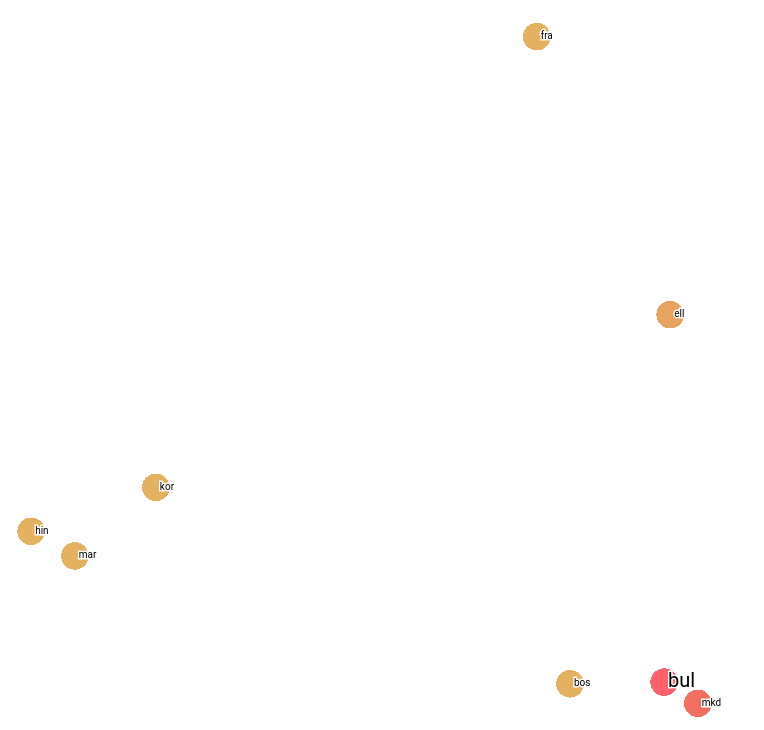
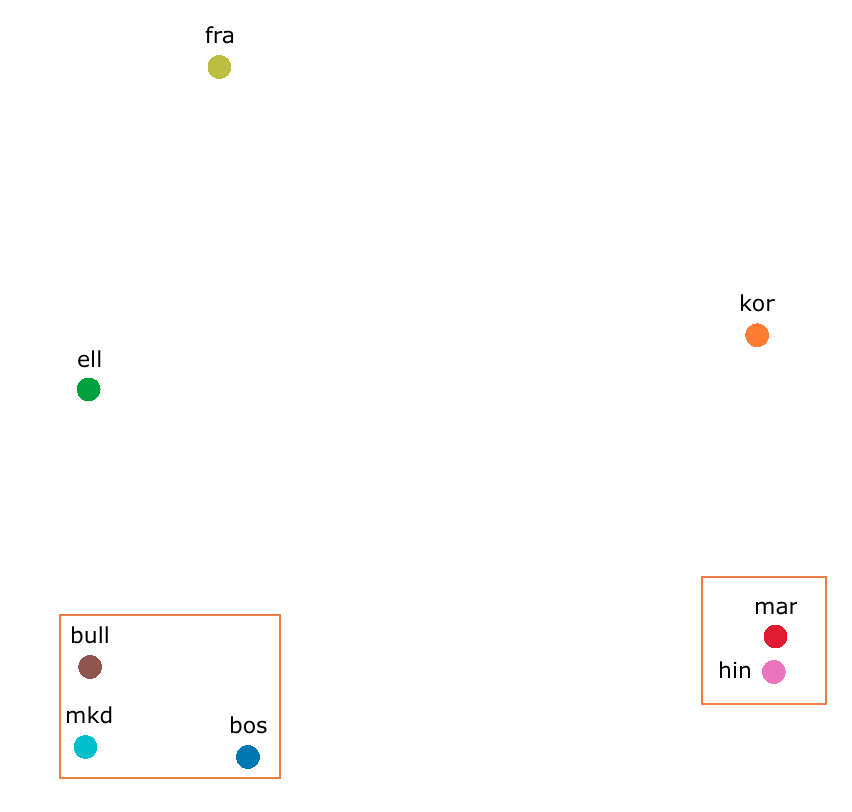
modifies figures, related works

diff --git a/2022/acl/acl_latex.tex b/2022/acl/acl_latex.tex
@@ -5,6 +5,7 @@
 \documentclass[11pt]{article}
 
 % Remove the "review" option to generate the final version.
+%\usepackage[review,nohyperref]{acl}
 \usepackage[review]{acl}
 
 % Standard package includes
@@ -102,11 +103,32 @@
 \newcommand{\SW}[1]{\underline{#1}}
 \newcommand{\mtsquare}[0]{MT$^2$}
 
+\makeatletter
+\newenvironment{breakablealgorithm}
+  {% \begin{breakablealgorithm}
+   \begin{center}
+     \refstepcounter{algorithm}% New algorithm
+     \hrule height.8pt depth0pt \kern2pt% \@fs@pre for \@fs@ruled
+     \renewcommand{\caption}[2][\relax]{% Make a new \caption
+       {\raggedright\textbf{\fname@algorithm~\thealgorithm} ##2\par}%
+       \ifx\relax##1\relax % #1 is \relax
+         \addcontentsline{loa}{algorithm}{\protect\numberline{\thealgorithm}##2}%
+       \else % #1 is not \relax
+         \addcontentsline{loa}{algorithm}{\protect\numberline{\thealgorithm}##1}%
+       \fi
+       \kern2pt\hrule\kern2pt
+     }
+  }{% \end{breakablealgorithm}
+     \kern2pt\hrule\relax% \@fs@post for \@fs@ruled
+   \end{center}
+  }
+\makeatother
+
 %subfigure
 \usepackage{caption}
 \usepackage{subcaption}
 
-\title{Multi-domain, multilingual translation with latent multi-task group dropout}
+\title{Latent Group Dropout for Multilingual and Multidomain Machine Translation}
 
 % Author information can be set in various styles:
 % For several authors from the same institution:
@@ -425,6 +447,15 @@ translation tasks. We evaluate models on widely used multilingual translation da
 	\item TED8-Related. Following the setting of \citet{Wang20balancing}, we use a subset of translations of \citet{qi18when} between English and eight related languages.
 	\item TED8-Diverse. The dataset consists of parallel sentences between English and eight diverse languages as in \citet{Wang20balancing}.
 \end{itemize}
+We clarify the notation of the languages in multilingual experiments as follows
+\begin{itemize}
+	\item Diverse: bos (bosnia), mar(marathi),
+         hin(hindi), mkd(macedonia), ell(greek),
+         bulgaria(bul), french(fra), korean(kor) 
+	\item Related: azerbajiani (aze), belarusian(bel),
+          glacian(glg), slovak (slk), turkisk (tur),
+		  russian(rus), portugese(por),czech(ces)
+\end{itemize}
 The detailed description of the datasets is provided in Appendix \ref{appendix:c}.
 \section{Results and ablation studies}
 \subsection{Multi-domain translation}
@@ -443,7 +474,8 @@ According to Table \ref{tab:mdmt}, \system{LaMGD} Tranformer shows a significant
 \end{table*}
 \subsubsection{Fuzzy domain separation}
 \label{ssec:fuzzy}
-In this experiment, we reuse an experiment proposed by \citet{Pham21revisiting} which measures the efficiency of a multi-domain NMT system exploit the proximity between domains. The experiment use the same data as the previous experiment. However, the domain \domain{LAW} is now randomly split into two pseudo domains \domain{law$_1$} and \domain{law$_2$}. If the multi-domain system made full use of the proximity between \domain{law$_1$} and \domain{law$_2$}, there should be no significant difference between the performance of the system trained with six original domains and with seven domains replacing \domain{law} by \domain{law$_1$} and \domain{law$_2$}. \citet{Pham21revisiting} showed a large gap between two training settings when using residual adapters. We report below the gap between two settings when using \system{LaMGD} Tranformer. 
+In this experiment, we reuse an experiment proposed by \citet{Pham21revisiting} which measures the efficiency of a multi-domain NMT system exploiting the proximity between domains. The experiment uses the same data as the previous experiment. However, the domain \domain{law} is now randomly split into two pseudo domains \domain{law$_1$} and \domain{law$_2$}. If the multi-domain system made full use of the proximity between \domain{law$_1$} and \domain{law$_2$}, there should be no significant difference between the performance of the system trained with six original domains and with seven domains replacing \domain{law} by \domain{law$_1$} and \domain{law$_2$}. \citet{Pham21revisiting} showed a large gap between two training settings when using residual adapters. We report below the gap between two settings when using \system{LaMGD} Tranformer. 
+
 \begin{table*}[h!]
   \centering
   \begin{tabular}{|p{4cm}|*{2}{r|}} \hline
@@ -456,10 +488,10 @@ In this experiment, we reuse an experiment proposed by \citet{Pham21revisiting} 
   \label{tab:fuzzy}
 \end{table*}
 
-Table \ref{tab:fuzzy} demonstrates a significant loss when training with two pseudo domain \domain{law$_1$} and \domain{law$_2$} compared to training with the real domain \domain{law}. Our system does not have this loss between two situation. In section \ref{ssec:abalation}, we show that our algorithm outputs the same sub-network for \domain{law$_1$} and \domain{law$_2$}, that allows a full transfer between two domain.
+Table \ref{tab:fuzzy} demonstrates a significant loss when training with two pseudo domains \domain{law$_1$} and \domain{law$_2$} compared to training with the real domain \domain{law}. Our system does not have this loss between two situations. In Section \ref{ssec:abalation}, we show that our algorithm outputs the same sub-network for \domain{law$_1$} and \domain{law$_2$}, that allows a full transfer between two domains.
 
 \subsection{Multilingual translation}
-According to Table \ref{tab:multilingual}, \system{LaMGD} Tranformer shows a boost of 0.42, 0.33, 0.32 in average over the multilingual \system{Transformer} in O2M-related, M2O-related, M2O-diverse respectively. Significant gains are observed in \domain{bel}, \domain{glg} (both direction), \domain{hin} and \domain{bos} (O2M direction) which are very low-resourced languages in the list. However, \system{LaMGD} Tranformer lags behind multilingual \system{Transformer} in O2M-diverse. 
+According to Table \ref{tab:multilingual}, \system{LaMGD} Tranformer shows a boost of 0.42, 0.33, 0.32 in average over the multilingual \system{Transformer} in O2M-related, M2O-related, M2O-diverse respectively. Significant gains are observed in \domain{bel}, \domain{glg} (both direction), \domain{hin} and \domain{bos} (O2M direction) which are very low-resourced languages in the list. However, \system{LaMGD} Tranformer lags behind multilingual \system{Transformer} and Language Adapters in O2M-diverse. 
 \begin{table*}[h!]
   \centering
   \begin{tabular}{|p{4cm}|*{9}{r|}} \hline
@@ -491,12 +523,12 @@ According to Table \ref{tab:multilingual}, \system{LaMGD} Tranformer shows a boo
   \label{tab:multilingual}
 \end{table*}
 
-
 \subsection{Similarity between dropping masks}
 \label{ssec:abalation}
-In this section, we compare the sub-networks of the domains or of the language pairs by computing the average of the similarities between the corresponding dropping mask in each layer.
+This section compares the sub-networks of the domains or the language pairs by computing the average of the similarities between the corresponding dropping masks concatenated through all the layers of the underlying model.
 
-For the multi-domain experiment, we analyze the case of fuzzy domain separation in Section \ref{ssec:fuzzy}. Table \ref{tab:fuzzy-sim} shows that the sub-networks of \domain{law$_1$} and \domain{law$_2$} are identical, which is one of the goals of our method.
+For the multi-domain experiment, we analyze the case of fuzzy domain separation in Section \ref{ssec:fuzzy}. Table \ref{tab:fuzzy-sim} shows that the sub-networks of \domain{law$_1$} and \domain{law$_2$} are identical, which is one of the goals of our method. Furthermore, we remark a large distance between \domain{rel} and the rest of the domains, which correlates to the fact that \domain{rel} has the most distant topic to other domains. In Figure ~\ref{fig:domain}, we visualize the domains using their dropping masks concatenated and mapped to 2D space by PCA.
+
 \begin{table*}[h!]
   \centering
   \begin{tabular}{|p{1cm}|*{7}{r|}} \hline
@@ -533,19 +565,20 @@ For multilingual case TED-related, we have four language families including (1) 
   \label{tab:related-sim}
 \end{table*}
 
-We also plot the languages based on their dropouts in \ref{fig:visual}
+We also plot the languages based on their dropouts in Figure\ref{fig:visual}.
 \begin{figure*}[htbp]
-\begin{subfigure}{.5\textwidth}
+\begin{subfigure}{\textwidth}
   \centering
   % include first image
-  \includegraphics[width=0.97\textwidth]{ted_related}  
+  \includegraphics[width=0.7\textwidth]{ted_related}  
   \caption{TED-Related}
   \label{fig:visual-related}
 \end{subfigure}
-\begin{subfigure}{.5\textwidth}
+\\
+\begin{subfigure}{\textwidth}
   \centering
   % include second image
-  \includegraphics[width=0.97\textwidth]{ted_diverse}  
+  \includegraphics[width=0.7\textwidth]{ted_diverse}  
   \caption{TED-Diverse}
   \label{fig:visual-diverse}
 \end{subfigure}
@@ -553,17 +586,22 @@ We also plot the languages based on their dropouts in \ref{fig:visual}
 \label{fig:visual}
 \end{figure*}
 
+\begin{figure*}[htbp]
+\includegraphics[width=0.7\textwidth]{multi_domain}
+\caption{Visualization of domains according to their dropouts (a large vector concatenating the dropping masks of all the layers of the model) constructed by PCA.}
+\label{fig:domain}
+\end{figure*}
+
 \section{Related work}
-The most adopted paradigm is to have two groups of parameters including task-agnostic parameters and task-specific parameters. Domain adapters and language adapters are strong baselines of this paradigm. However, adapters does not take into account the proximity of the task in their designed architectures. 
+Multidomain, multilingual translation 
 
-\citep{sen19multilingual,kong21multilingual} used the similar idea of language proximity based parameter sharing. The authors proposed a multi-decoder model sharing the same encoder among languages and routed languages in different families to different decoders.
+\citep{sen19multilingual,kong21multilingual} used the similar idea of language proximity-based parameter sharing. The authors proposed a multi-decoder model sharing the same encoder among languages and routed languages in different families to different decoders.
 
-\textbf{Sparse Transformer}\citet{xian20deep} proposed using different depths for different tasks. The authors aimed to match the depth of the sub-network to the complexity of the task. \citet{Gong21pay,Gong21adaptive} also take interest in the adaptive sparse Transformers which differ the selection of heads in multi-head attention, of layers and of blocks in feed-forward matrices between different tasks. Mixture-of-experts (MoE) is another effective approach of sparse modeling. Within the transformer model, GShard model replaces a single feedforward (FFN) sub-layer with an MoE module consisting of multiple FFN sub-layers \citep{lepikhin21gshard}. \citet{william21switch} 
+\textbf{Sparse Transformer}\citet{xian20deep} proposed using different depths for different tasks. The authors aimed to match the depth of the sub-network to the complexity of the task. \citet{Gong21pay,Gong21adaptive} also take an interest in the adaptive sparse Transformers, which differ the selection of heads in multi-head attention, layers, and blocks in feedforward matrices between different tasks. Mixture-of-experts (MoE) is another effective approach to sparse modeling. Within the transformer model, the GShard model replaces a single feedforward (FFN) sub-layer with an MoE module consisting of multiple FFN sub-layers \citep{lepikhin21gshard}. \citet{william21switch} 
 
-\textbf{Adapters} have proven to be very efficient for NLP multi-task modeling \citep{houlsby19parameter,Bapna19simple,Pham20Study,pfeiffer20adapterhub}. The method consists of plugging several adapters to the intermediate layers of a pretrained Transformer and finetuning these adapters on the downstream tasks. Adapters can also be trained unsurpervisedly in multilingual translation \citep{Philip20monolingual}. However, hard-coded separation between the domains of different tasks leads to a catastrophic forgetting \citep{pfeiffer21adapterfusion}, which is a common problem in multi-task modeling using neural networks \cite{Michael89catastrophic}. In multi-domain translation, recently \citet{Pham21revisiting} demonstrated the brittleness of domain adapters against fuzzy domain separations, out-of-domain distributions and erroneous domain tags. Recently, several works have been dedicated to mitigate this weakness through mixture of expert mechanisms, for example,\cite{pfeiffer21adapterfusion}.
+\textbf{Adapters} have proven to be very efficient for NLP multi-task modeling \citep{houlsby19parameter,Bapna19simple,Pham20Study,pfeiffer20adapterhub}. The method consists of plugging several adapters to the intermediate layers of a pretrained Transformer and finetuning these adapters on the downstream tasks. Adapters can also be trained unsupervised in multilingual translation \citep{Philip20monolingual}. However, the hard-coded separation between the domains of different tasks leads to a catastrophic forgetting \citep{pfeiffer21adapterfusion}, which is a common problem in multi-task modeling using neural networks \cite{Michael89catastrophic}. In multi-domain translation, recently \citet{Pham21revisiting} demonstrated the brittleness of domain adapters against fuzzy domain separations, out-of-domain distributions, and erroneous domain tags. Recently, several works have aimed to mitigate this weakness through a mixture of expert mechanisms, for example,\cite{pfeiffer21adapterfusion}.
 
-Recently, \citet{biao21share} proposed jointly learning how to route between shared representation and language-specific representation via a conditional language-specific routing and the parameters of the underlying Transformer. This method is very related to the FusionAdapters of \cite{pfeiffer21adapterfusion}. Both approaches assume the final representation is a combination or a choice between shared representation and task-specific representations. The proximity between task is not taken into account in the routing mechanism. Our method proposed a different point of view on the problem of multi-task routing in the underlying network.
-
+Recently, \citet{biao21share} proposed jointly learning how to route between shared representation and language-specific representation via a conditional language-specific routing and the parameters of the underlying Transformer. This method is very related to the FusionAdapters of \cite{pfeiffer21adapterfusion}. Both approaches assume the final representation is a combination or a choice between shared representation and task-specific representations. The proximity between tasks is not taken into account in the routing mechanism. Our method proposed a different point of view on the problem of multi-task routing in the underlying network.
 
 \section{Conclusions and outlook}
 In this work, we present a novel method allows jointly searching optimal sub-networks for multiple tasks and the parameters of the underlying network. Our method proposed a rigorous mathematical modeling and an end-to-end optimization with very little extra computational cost. We demonstrate an improvement of our model with large margin over multi-domain Transformer without zero additional parameters and an equivalent performance compared to a strong baseline such as Domain Adapters consisting of large number of extra parameters. In multilingual translation, our model outperforms multilingual Transformer and Language Adapters in 3/4 cases. Besides, we provided an thorough ablation study on the similarities between learned sub-networks and demonstrated a strong correlation between the sub-networks' similarity and the proximity of their tasks (domain or language).
@@ -676,15 +714,6 @@ We describe our datasets for multi-domain translation experiment in Table \ref{t
 \label{tab:Corpora-chap4}
 \end{table*}
 \subsection{Multilingual datasets}
-We clarify the notation of the languages in multilingual experiments as follows
-\begin{itemize}
-	\item Diverse: bos (bosnia), mar(marathi),
-         hin(hindi), mkd(macedonia), ell(greek),
-         bulgaria(bul), french(fra), korean(kor) 
-	\item Related: azerbajiani (aze), belarusian(bel),
-          glacian(glg), slovak (slk), turkisk (tur),
-		  russian(rus), portugese(por),czech(ces)
-\end{itemize}
 Table \ref{tab:Corpora-multilingual} describes the subset of TED8 that we used in our experiments.
 \begin{table*}
   \centering
@@ -732,5 +761,28 @@ We describe the choice of our systems in multilingual experiments as follows
 \end{itemize}
 
 We set the dropout probability as 0.3. We train the multilingual Transformer model in 40~K iterations with a batchsize of 9600 tokens on 16 GPUs as in \citet{Gong21adaptive}. We train \system{LaMGD} Tranformer in 50~K iterations with the same batchsize. Finally, we finetune the Language Adapters in 5~K iterations.
+
+\section{\system{LaMGD}'s training algorithm}
+
+\begin{breakablealgorithm}
+\caption{Training \system{LaMGD}} \label{alg:mdmt}
+\begin{algorithmic}[1]
+\REQUIRE {
+  \begin{itemize}
+    \setlength{\itemsep}{-1pt}    \setlength{\parsep}{0pt}
+  \item[] 
+  \item $n_d$ corpora $C^d, d \in [1, \dots,n_d]$ for $n_d$ domains equipped by an empirical distribution $D_d(x)$
+  \item number of retained groups: k, number of groups: $n_p$
+ \end{itemize}}
+\REPEAT 
+\STATE{Pick a batch from domain $d$}
+\STATE{Sampling $\forall p,  g_l^d(p) & \displaystyle{\mathop{\sim}^{\text{i.i.d}}} \operatorname{Gumbel}(0,1)$}
+\IF{$Early\_stopping(Eval\_scores)$}
+	\STATE{break}
+\ENDIF
+\STATE{$i=i+1$}
+\UNTIL{$i> iter\_num$}
+\end{algorithmic}
+\end{breakablealgorithm}
 
 \end{document}
